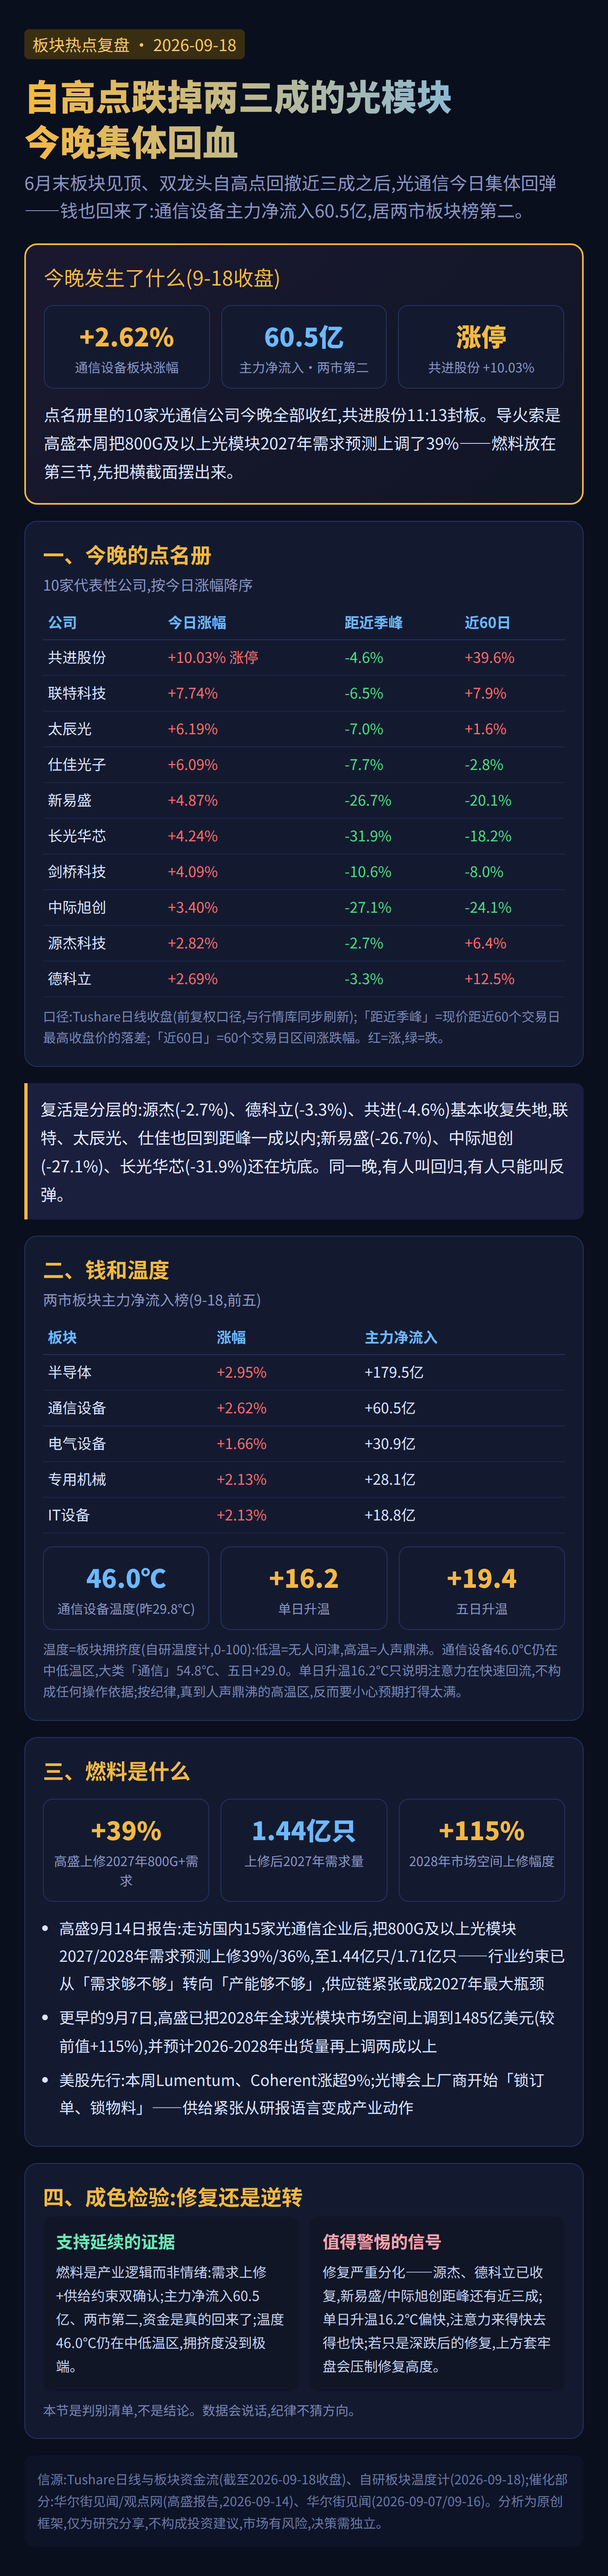
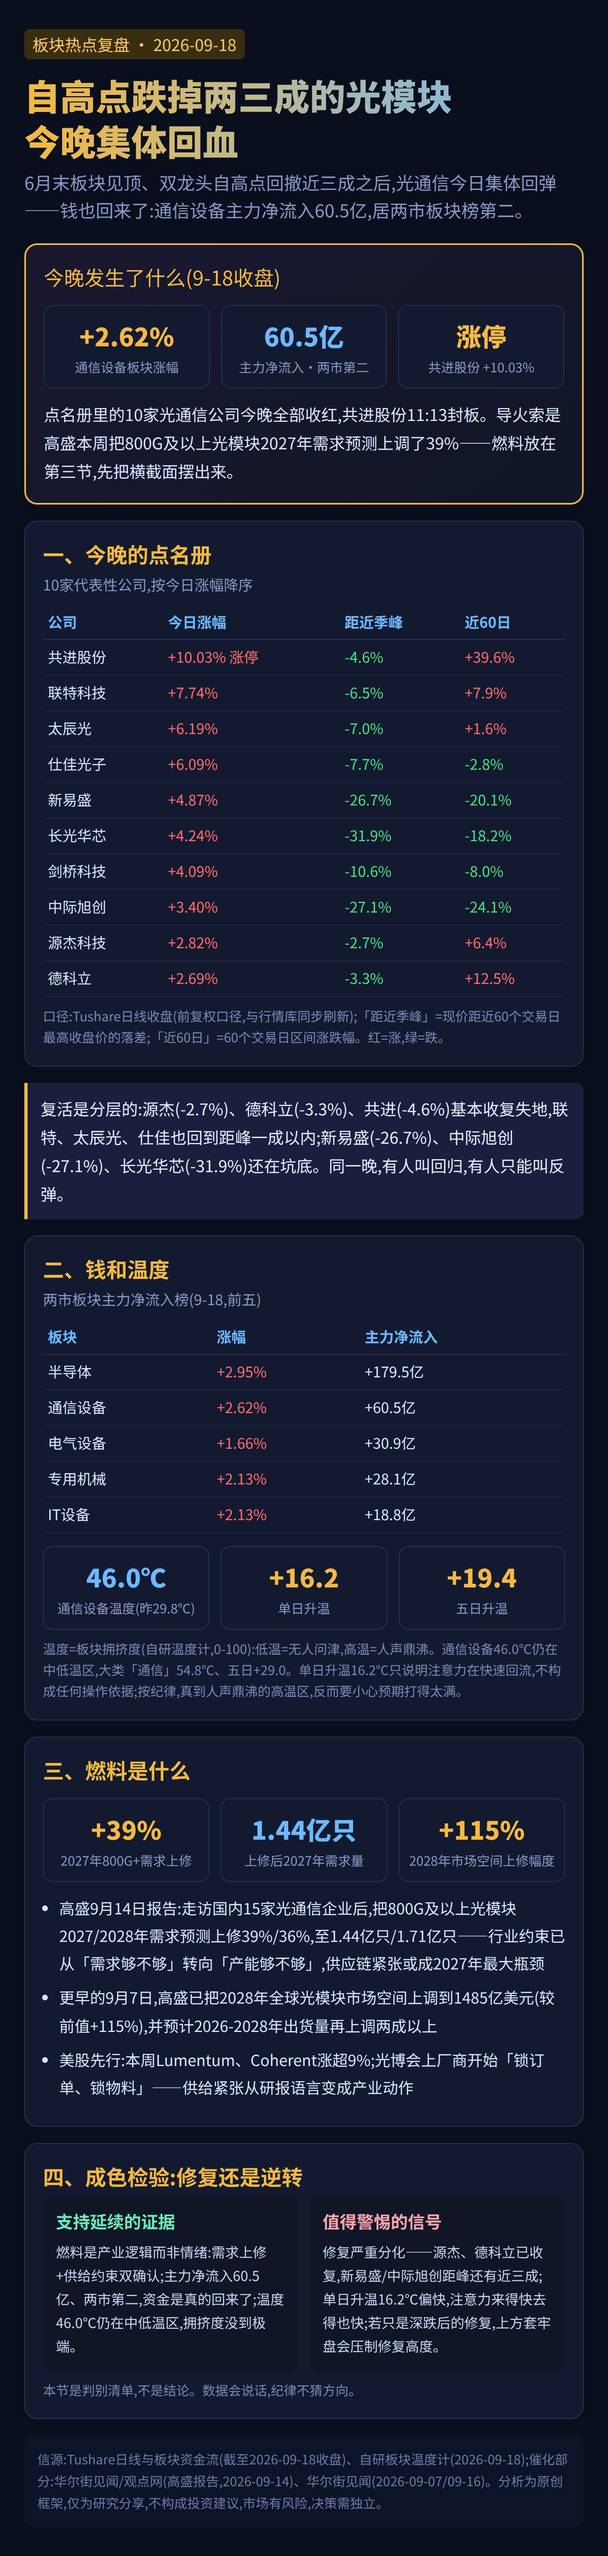
fix(card): 燃料卡stat标签断行孤字修正+目检切块清理(vision双段pass)

Changed region(s): [[0.0307, 0.0311, 0.9507, 0.9952], [0.8893, 0.0622, 0.92, 0.0933]]

diff --git a/docs/小红书卡片/未发布/板块热点复盘/2026-09-18_光通信复活/长图.html b/docs/小红书卡片/未发布/板块热点复盘/2026-09-18_光通信复活/长图.html
@@ -93,7 +93,7 @@
   <div class="card">
     <h2>三、燃料是什么</h2>
     <div class="stats" style="margin-bottom:16px">
-      <div class="stat"><div class="v">+39%</div><div class="k">高盛上修2027年800G+需求</div></div>
+      <div class="stat"><div class="v">+39%</div><div class="k">2027年800G+需求上修</div></div>
       <div class="stat"><div class="v ice">1.44亿只</div><div class="k">上修后2027年需求量</div></div>
       <div class="stat"><div class="v">+115%</div><div class="k">2028年市场空间上修幅度</div></div>
     </div>
